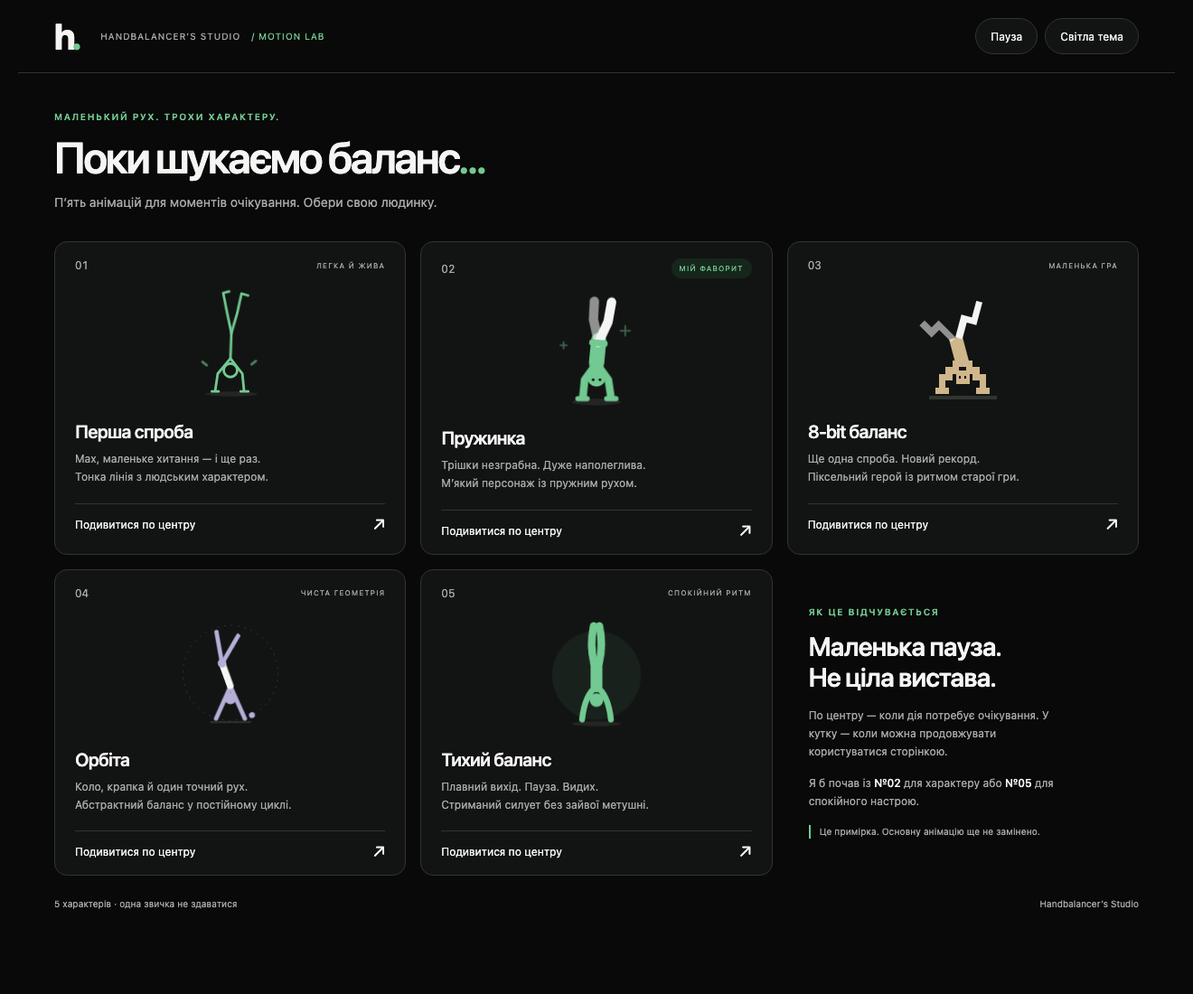
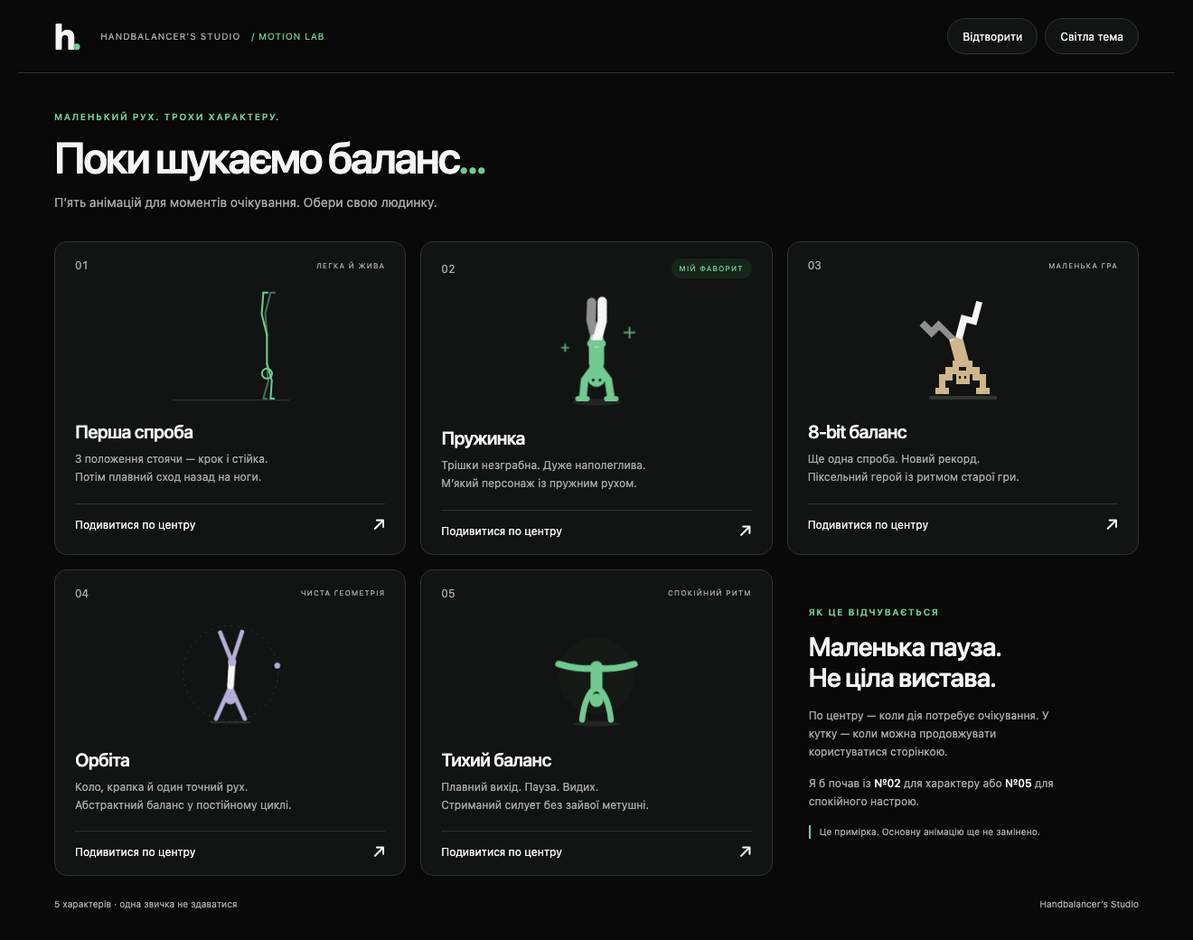
feat(ui): animate standing to handstand and back

diff --git a/server/static/previews/handstand/cycle-motion.js b/server/static/previews/handstand/cycle-motion.js
@@ -1,0 +1,87 @@
+// One small, side-view skeleton. Hands stay at fixed floor anchors during support.
+// Frames: time, hip, torso angle, rear/front feet, rear/front hands.
+const stand = [[68,105],-90,[62,164],[74,164],[57,108],[82,108]];
+const step = [[88,111],-78,[62,164],[112,164],[125,42],[133,47]];
+const stride = [[75,108],-86,[62,164],[90,149],[98,105],[108,93]];
+const lunge = [[100,116],-42,[64,164],[118,164],[153,124],[161,123]];
+const plant = [[108,106],41,[62,133],[118,164],[166,164],[176,164]];
+const split = [[161,76],81,[174,18],[113,109],[166,164],[176,164]];
+const balance = [[171,75],90,[176,16],[166,16],[166,164],[176,164]];
+const frames = [
+  [0,...stand],[.06,...stand],[.14,...stride],[.22,...step],[.28,...lunge],
+  [.34,...plant],
+  [.43,[130,88],51,[90,45],[117,145],[166,164],[176,164]],
+  [.50,...split],[.56,...balance],[.66,...balance],
+  [.72,...split],[.80,...plant],[.87,...lunge],[.92,...step],
+  [.96,...stride],[.98,...stand],[1,...stand],
+];
+const lerp = (a,b,t) => a+(b-a)*t;
+const point = (a,b,t) => [lerp(a[0],b[0],t),lerp(a[1],b[1],t)];
+
+function joint(start,end,length,bend) {
+  const dx=end[0]-start[0], dy=end[1]-start[1];
+  const distance=Math.max(.001,Math.hypot(dx,dy));
+  const offset=Math.sqrt(Math.max(0,length*length-distance*distance/4));
+  return [(start[0]+end[0])/2-bend*dy/distance*offset,
+    (start[1]+end[1])/2+bend*dx/distance*offset];
+}
+
+export function poseAt(progress) {
+  const t=Math.min(1,Math.max(0,progress));
+  const index=Math.max(1,frames.findIndex(frame=>frame[0]>=t));
+  const a=frames[index-1], b=frames[index];
+  const fraction=(t-a[0])/(b[0]-a[0]);
+  const ease=fraction*fraction*(3-2*fraction);
+  const hip=point(a[1],b[1],ease);
+  const angle=lerp(a[2],b[2],ease)*Math.PI/180;
+  const shoulder=[hip[0]+40*Math.cos(angle),hip[1]+40*Math.sin(angle)];
+  const head=[shoulder[0]+14*Math.cos(angle),shoulder[1]+14*Math.sin(angle)];
+  const backFoot=point(a[3],b[3],ease), frontFoot=point(a[4],b[4],ease);
+  const backHand=point(a[5],b[5],ease), frontHand=point(a[6],b[6],ease);
+  return {hip,shoulder,head,backFoot,frontFoot,backHand,frontHand,
+    backKnee:joint(hip,backFoot,30,-1),frontKnee:joint(hip,frontFoot,30,-1),
+    backElbow:joint(shoulder,backHand,25,-1),frontElbow:joint(shoulder,frontHand,25,-1)};
+}
+
+export function drawPose(svg,progress) {
+  const pose=poseAt(progress);
+  const coordinates = p => p.map(value=>value.toFixed(2)).join(' ');
+  const path = (name,points) => svg.querySelector(`[data-bone="${name}"]`)
+    .setAttribute('d',points.map((p,i)=>(i?'L':'M')+coordinates(p)).join(' '));
+  path('torso',[pose.hip,pose.shoulder]);
+  for (const side of ['back','front']) {
+    path(`${side}-leg`,[pose.hip,pose[`${side}Knee`],pose[`${side}Foot`]]);
+    path(`${side}-arm`,[pose.shoulder,pose[`${side}Elbow`],pose[`${side}Hand`]]);
+    const foot=pose[`${side}Foot`], hand=pose[`${side}Hand`];
+    path(`${side}-foot`,[foot,[foot[0]+6,foot[1]]]);
+    path(`${side}-hand`,[hand,[hand[0]+5,hand[1]]]);
+  }
+  svg.querySelector('[data-head]').setAttribute('cx',pose.head[0].toFixed(2));
+  svg.querySelector('[data-head]').setAttribute('cy',pose.head[1].toFixed(2));
+}
+
+export function mountHandstandCycle(svg) {
+  let elapsed=0, previous=null, frame=null, disposed=false;
+  const root=document.documentElement;
+  function tick(now) {
+    if (disposed) return;
+    if (!svg.isConnected) {dispose();return;}
+    if (previous!==null) elapsed+=now-previous;
+    previous=now;
+    drawPose(svg,(elapsed%8200)/8200);
+    frame=requestAnimationFrame(tick);
+  }
+  function sync() {
+    cancelAnimationFrame(frame); previous=null;
+    if (!document.hidden && root.dataset.paused!=='true') frame=requestAnimationFrame(tick);
+  }
+  const observer=new MutationObserver(sync);
+  observer.observe(root,{attributes:true,attributeFilter:['data-paused']});
+  document.addEventListener('visibilitychange',sync);
+  function dispose() {
+    disposed=true; cancelAnimationFrame(frame); observer.disconnect();
+    document.removeEventListener('visibilitychange',sync);
+  }
+  drawPose(svg,0); sync();
+  return dispose;
+}

diff --git a/tests/e2e/handstand-options.spec.js b/tests/e2e/handstand-options.spec.js
@@ -13,9 +13,19 @@ test('five animated options, both themes, mobile layout and pause', async ({page
       expect(await page.evaluate(()=>document.documentElement.scrollWidth<=innerWidth)).toBe(true);
     }
   }
-  expect(await page.locator('[data-option]').evaluateAll(cards=>cards.every(card=>card.getAnimations({subtree:true}).length>0))).toBe(true);
+  // SVG joint animation changes paths; the other studies use CSS animation clocks.
+  const snapshots=()=>page.locator('[data-option]').evaluateAll(cards=>cards.map(card=>JSON.stringify({
+    svg:card.querySelector('svg').outerHTML, clocks:card.getAnimations({subtree:true}).map(a=>a.currentTime),
+  })));
+  const before=await snapshots();
+  await page.waitForTimeout(800);
+  const after=await snapshots();
+  expect(after.every((value,index)=>value!==before[index])).toBe(true);
   await page.getByRole('button',{name:'Пауза'}).click();
   expect(await page.evaluate(()=>document.getAnimations().every(animation=>animation.playState==='paused'))).toBe(true);
+  const still=await page.locator('[data-handstand-cycle]').innerHTML();
+  await page.waitForTimeout(120);
+  expect(await page.locator('[data-handstand-cycle]').innerHTML()).toBe(still);
 });
 
 test('each option opens a small central animation with dimming; corner and Escape restore focus', async ({page}) => {
@@ -44,7 +54,37 @@ test('reduced motion defaults to still poses; preview makes no API calls', async
   await page.goto(preview);
   await expect(page.locator('[data-option]')).toHaveCount(5);
   expect(await page.evaluate(()=>document.getAnimations().every(animation=>animation.playState==='paused'))).toBe(true);
+  const cycle=page.locator('[data-handstand-cycle]');
+  const still=await cycle.innerHTML();
+  await page.waitForTimeout(800);
+  expect(await cycle.innerHTML()).toBe(still);
+  await page.getByRole('button',{name:'На весь екран — Перша спроба'}).click();
+  const clone=page.getByRole('dialog').locator('[data-handstand-cycle]');
+  const cloneStill=await clone.innerHTML();
+  await page.waitForTimeout(800);
+  expect(await clone.innerHTML()).toBe(cloneStill);
+  await page.keyboard.press('Escape');
   await page.getByRole('button',{name:'На весь екран — Пружинка'}).click();
   expect(await page.getByRole('dialog').evaluate(el=>el.getAnimations({subtree:true}).every(animation=>animation.playState==='paused'))).toBe(true);
   expect(api).toEqual([]);
+});
+
+test('dedicated cycle moves from standing feet to a handstand and pauses', async ({page}) => {
+  await page.setViewportSize({width:390,height:844});
+  await page.goto('/static/previews/handstand/cycle.html');
+  const figure=page.locator('[data-handstand-cycle]');
+  expect(Number(await figure.locator('[data-head]').getAttribute('cy'))).toBeLessThan(60);
+  await expect.poll(async()=>{
+    const path=await figure.locator('[data-bone="front-foot"]').getAttribute('d');
+    return Number(path.match(/-?\d+(?:\.\d+)?/g)[1]);
+  },{timeout:6500}).toBeLessThan(25);
+  await page.getByRole('button',{name:'Пауза'}).click();
+  const still=await figure.innerHTML();
+  await page.waitForTimeout(120);
+  expect(await figure.innerHTML()).toBe(still);
+  expect(await page.evaluate(()=>document.documentElement.scrollWidth<=innerWidth)).toBe(true);
+  await page.getByRole('button',{name:'На весь екран — Повний цикл'}).click();
+  await expect(page.getByRole('dialog')).toBeVisible();
+  await page.keyboard.press('Escape');
+  await expect(page.getByRole('button',{name:'На весь екран — Повний цикл'})).toBeFocused();
 });

diff --git a/server/static/previews/handstand/cycle.html b/server/static/previews/handstand/cycle.html
@@ -1,0 +1,45 @@
+<!doctype html>
+<html lang="uk" data-theme="dark">
+<head>
+  <meta charset="utf-8"><meta name="viewport" content="width=device-width, initial-scale=1">
+  <title>З ніг — на руки · Handbalancer’s Studio</title>
+  <link rel="stylesheet" href="../../css/tokens.css"><link rel="stylesheet" href="./options.css">
+  <script type="module" src="./options.js"></script>
+</head>
+<body>
+  <header class="topbar">
+    <a class="wordmark" href="./index.html" aria-label="Усі варіанти">h<span>.</span></a>
+    <span class="studio-label">HANDBALANCER’S STUDIO <span>/ MOTION LAB</span></span>
+    <div class="tools"><button type="button" data-pause aria-pressed="false">Пауза</button><button type="button" data-theme-toggle aria-label="Змінити тему">Світла тема</button></div>
+  </header>
+  <main class="cycle-main">
+    <section class="intro"><p class="eyebrow">ПЕРША СПРОБА / ПОВНИЙ РУХ</p>
+      <h1>З ніг — на руки<span>.</span></h1>
+      <p class="lead">Крок уперед. Вихід у стійку. Плавне повернення назад.</p>
+    </section>
+    <article class="option single-stage" data-option="1">
+      <div class="artboard"><svg class="figure cycle-figure" data-handstand-cycle viewBox="0 0 240 184" fill="none" aria-hidden="true">
+            <path class="cycle-ground" d="M40 166H202" />
+            <g class="cycle-rear"><path data-bone="back-leg" d="M68 105L62 135L62 164"/><path data-bone="back-foot" d="M62 164H68"/><path data-bone="back-arm" d="M68 65L57 86L57 108"/><path data-bone="back-hand" d="M57 108H62"/></g>
+            <path data-bone="torso" d="M68 105V65"/>
+            <path data-bone="front-leg" d="M68 105L74 135L74 164"/><path data-bone="front-foot" d="M74 164H80"/>
+            <path data-bone="front-arm" d="M68 65L82 86L82 108"/><path data-bone="front-hand" d="M82 108H87"/>
+            <circle data-head cx="68" cy="51" r="7"/>
+          </svg></div>
+      <div class="card-copy"><h2>Крок. Стійка. Назад.</h2><p>Один простий рух, який хочеться повторити.</p></div>
+      <button class="preview-button" type="button" data-open aria-label="На весь екран — Повний цикл">Подивитися по центру <span aria-hidden="true">↗</span></button>
+    </article>
+    <p class="cycle-sequence">Стоїть <span>→</span> Крок <span>→</span> Стійка на руках <span>→</span> Назад на ноги</p>
+    <footer><a href="./index.html">← Усі п’ять варіантів</a><span>Handbalancer’s Studio</span></footer>
+  </main>
+  <dialog data-preview data-placement="center" aria-labelledby="preview-title">
+    <div class="dialog-toolbar"><p id="preview-title"></p><button type="button" data-close aria-label="Закрити перегляд">Закрити <span aria-hidden="true">×</span></button></div>
+    <div class="loading-stage"><div data-stage></div><p>Знаходимо баланс<span class="dots">…</span></p></div>
+    <div class="placement" role="group" aria-label="Розташування анімації">
+      <button type="button" data-placement="center" aria-pressed="true">По центру</button>
+      <button type="button" data-placement="corner" aria-pressed="false">У кутку</button>
+    </div>
+    <p class="escape-hint">Демонстрація · Esc, щоб повернутися</p>
+  </dialog>
+</body>
+</html>

diff --git a/server/static/previews/handstand/options.css b/server/static/previews/handstand/options.css
@@ -36,17 +36,12 @@ h2 { margin: 0 0 9px; font-weight: 550; font-size: 20px; letter-spacing: -.035em
 .preview-note { font-size: 10px; line-height: 1.5; color: var(--muted); border-left: 2px solid var(--accent); padding-left: 10px; }
 footer { display: flex; justify-content: space-between; gap: 20px; padding: 25px 0 0; font-size: 10px; color: var(--muted); }
 .ground-shadow { fill: var(--text); opacity: .08; }
+.cycle-figure { width: 190px; height: 146px; }
+.cycle-figure path, .cycle-figure circle { stroke: var(--accent); stroke-width: 2.6; stroke-linecap: round; stroke-linejoin: round; }
+.cycle-figure .cycle-ground { stroke: var(--line); stroke-width: 1.4; }
+.cycle-rear { opacity: .5; }
 .ink { stroke: var(--accent); stroke-linecap: round; stroke-linejoin: round; }
 .thin { stroke-width: 3; }
-.line-balance { transform-origin: 80px 90px; animation: line-balance 3.4s ease-in-out infinite; }
-.line-back, .line-front { transform-origin: 80px 60px; }
-.line-back { animation: line-back 3.4s ease-in-out infinite; }
-.line-front { animation: line-front 3.4s ease-in-out infinite; }
-.effort { animation: effort 3.4s ease-in-out infinite; }
-@keyframes line-balance { 0%,100% { transform: rotate(55deg); } 32% { transform: rotate(-8deg); } 48%,62% { transform: rotate(2deg); } 78% { transform: rotate(-5deg); } }
-@keyframes line-back { 0%,100% { transform: rotate(54deg); } 28% { transform: rotate(-27deg); } 52%,65% { transform: rotate(0deg); } 80% { transform: rotate(22deg); } }
-@keyframes line-front { 0%,100% { transform: rotate(-40deg); } 28% { transform: rotate(24deg); } 52%,65% { transform: rotate(0deg); } 80% { transform: rotate(-16deg); } }
-@keyframes effort { 0%,24%,85%,100% { opacity: 0; } 40%,65% { opacity: .6; } }
 
 .spring-arms, .spring-hands, .spring-torso, .spring-leg, .spring-waist { stroke-linecap: round; stroke-linejoin: round; }
 .spring-arms { stroke: var(--accent); stroke-width: 9; }
@@ -147,3 +142,13 @@ dialog[data-placement="corner"] .escape-hint { bottom: 128px; }
   footer { font-size: 9px; } footer span { display: none; }
   .dialog-toolbar { top: 16px; left: 16px; right: 16px; } .dialog-toolbar p { max-width: 58%; }
 }
+
+.cycle-main { max-width: 820px; }
+.single-stage { margin-top: 30px; }
+.single-stage .artboard { height: 320px; }
+.single-stage .figure { width: min(360px,100%); height: 276px; }
+.single-stage .card-copy { text-align: center; }
+.single-stage .preview-button { max-width: 320px; margin-left: auto; margin-right: auto; }
+.cycle-sequence { margin: 24px 0 0; text-align: center; font-size: 11px; line-height: 2; color: var(--muted); }
+.cycle-sequence span { padding: 0 8px; color: var(--accent); }
+.cycle-main footer a { color: var(--muted); text-decoration: none; }

diff --git a/server/static/previews/handstand/index.html b/server/static/previews/handstand/index.html
@@ -27,21 +27,16 @@
       <article class="option line" data-option="1">
         <div class="card-top"><span class="number">01</span><span class="tag">ЛЕГКА Й ЖИВА</span></div>
         <div class="artboard">
-          <svg class="figure line-figure" viewBox="0 0 160 152" fill="none" aria-hidden="true">
-            <ellipse class="ground-shadow" cx="81" cy="132" rx="31" ry="3" />
-            <g class="ink thin">
-              <path d="M62 128L65 108L80 90L94 108L96 128M58 129H66M92 129H101" />
-              <circle cx="80" cy="104" r="8" />
-              <g class="line-balance">
-                <path d="M80 90L80 60" />
-                <path class="line-back" d="M80 60L74 35L69 13L76 11" />
-                <path class="line-front" d="M80 60L86 36L90 13L98 15" />
-              </g>
-              <path class="effort" d="M52 98L47 94M105 97L110 93" />
-            </g>
+          <svg class="figure cycle-figure" data-handstand-cycle viewBox="0 0 240 184" fill="none" aria-hidden="true">
+            <path class="cycle-ground" d="M40 166H202" />
+            <g class="cycle-rear"><path data-bone="back-leg" d="M68 105L62 135L62 164"/><path data-bone="back-foot" d="M62 164H68"/><path data-bone="back-arm" d="M68 65L57 86L57 108"/><path data-bone="back-hand" d="M57 108H62"/></g>
+            <path data-bone="torso" d="M68 105V65"/>
+            <path data-bone="front-leg" d="M68 105L74 135L74 164"/><path data-bone="front-foot" d="M74 164H80"/>
+            <path data-bone="front-arm" d="M68 65L82 86L82 108"/><path data-bone="front-hand" d="M82 108H87"/>
+            <circle data-head cx="68" cy="51" r="7"/>
           </svg>
         </div>
-        <div class="card-copy"><h2>Перша спроба</h2><p>Мах, маленьке хитання — і ще раз.<br>Тонка лінія з людським характером.</p></div>
+        <div class="card-copy"><h2>Перша спроба</h2><p>З положення стоячи — крок і стійка.<br>Потім плавний сход назад на ноги.</p></div>
         <button class="preview-button" type="button" data-open aria-label="На весь екран — Перша спроба">Подивитися по центру <span aria-hidden="true">↗</span></button>
       </article>
 

diff --git a/tests/js/handstand-cycle.test.js b/tests/js/handstand-cycle.test.js
@@ -1,0 +1,36 @@
+import test from 'node:test';
+import assert from 'node:assert/strict';
+import {poseAt} from '../../server/static/previews/handstand/cycle-motion.js';
+
+test('standing, forward step, planted hands, handstand and return form a complete loop', () => {
+  const start=poseAt(0), step=poseAt(.22), plant=poseAt(.34), peak=poseAt(.6);
+  assert.ok(start.head[1]<start.hip[1] && start.hip[1]<start.frontFoot[1]);
+  assert.equal(start.frontFoot[1],164);
+  assert.ok(step.frontFoot[0]>start.frontFoot[0]+30);
+  assert.equal(plant.frontHand[1],164);
+  assert.ok(peak.frontFoot[1]<peak.hip[1] && peak.hip[1]<peak.shoulder[1]);
+  assert.ok(peak.shoulder[1]<peak.frontHand[1]);
+  assert.deepEqual(poseAt(1),start);
+  assert.deepEqual(poseAt(0.98),start);
+});
+
+test('hands stay planted throughout the kick and exit; joints stay above the floor', () => {
+  for (let i=0;i<=1000;i++) {
+    const t=i/1000, pose=poseAt(t);
+    for (const point of Object.values(pose)) {
+      assert.ok(point.every(Number.isFinite));
+      assert.ok(point[1]<=164.001,`below ground at ${t}`);
+    }
+    if(t>=.34 && t<=.80) {
+      assert.deepEqual(pose.frontHand,[176,164]);
+      assert.deepEqual(pose.backHand,[166,164]);
+    }
+    assert.ok(Math.abs(Math.hypot(pose.shoulder[0]-pose.hip[0],pose.shoulder[1]-pose.hip[1])-40)<.001);
+    for(const side of ['back','front']) {
+      for(const [from,to,length] of [['hip',`${side}Knee`,30],[`${side}Knee`,`${side}Foot`,30],
+        ['shoulder',`${side}Elbow`,25],[`${side}Elbow`,`${side}Hand`,25]]) {
+        assert.ok(Math.abs(Math.hypot(pose[from][0]-pose[to][0],pose[from][1]-pose[to][1])-length)<.001);
+      }
+    }
+  }
+});

diff --git a/server/static/previews/handstand/options.js b/server/static/previews/handstand/options.js
@@ -1,3 +1,5 @@
+import {mountHandstandCycle} from './cycle-motion.js';
+
 const root = document.documentElement;
 const pause = document.querySelector('[data-pause]');
 const theme = document.querySelector('[data-theme-toggle]');
@@ -11,6 +13,8 @@ function setPaused(value) {
   pause.textContent = value ? 'Відтворити' : 'Пауза';
 }
 setPaused(motion.matches);
+for (const svg of document.querySelectorAll('[data-handstand-cycle]')) mountHandstandCycle(svg);
+let disposeCycle;
 motion.addEventListener('change', event => setPaused(event.matches));
 pause.addEventListener('click', () => setPaused(root.dataset.paused !== 'true'));
 theme.addEventListener('click', () => {
@@ -28,6 +32,9 @@ for (const button of document.querySelectorAll('[data-open]')) {
   button.addEventListener('click', () => {
     const card = button.closest('[data-option]');
     stage.replaceChildren(card.querySelector('svg').cloneNode(true));
+    disposeCycle?.();
+    const cycle=stage.querySelector('[data-handstand-cycle]');
+    disposeCycle=cycle ? mountHandstandCycle(cycle) : null;
     dialog.querySelector('#preview-title').textContent = `0${card.dataset.option} / ${card.querySelector('h2').textContent}`;
     setPlacement('center');
     dialog.showModal();
@@ -36,6 +43,7 @@ for (const button of document.querySelectorAll('[data-open]')) {
 }
 dialog.querySelector('[data-close]').addEventListener('click', () => dialog.close());
 dialog.addEventListener('close', () => {
+  disposeCycle?.(); disposeCycle=null;
   stage.replaceChildren();
   document.body.classList.remove('preview-open');
 });

diff --git a/docs/adr/handstand-cycle.md b/docs/adr/handstand-cycle.md
@@ -1,0 +1,27 @@
+# Повний цикл thin-line handstand — 2026-11-08
+
+Власник уточнив варіант01: звичайна стійка на ногах → крок уперед → руки
+на підлогу → мах і приєднання другої ноги у стійці → сход назад → вихідна поза.
+Стиль — тонка лінія першого варіанта. Жодних зірок, орбіт або падінь.
+
+Оновлено01 у gallery; окремий перегляд /static/previews/handstand/cycle.html.
+Цикл8.2s, пауза у верхній точці та стоячи. Малий JS-контролер інтерполює
+ключові пози; двосегментні руки/ноги мають сталі довжини. Долоні нерухомі
+під час опори. SVG без зовнішніх залежностей, мережі чи даних користувача.
+
+RAF зупиняється на pause/hidden tab, elapsed не стрибає при поверненні;
+reduced-motion починається нерухомо; dialog clone має dispose (RAF/observer/listener).
+Основний runtime loader/правила blocking overlay не змінено: це refinement
+анімації у вже погодженій preview-задачі, placement ще не визначено остаточно.
+
+RED:node --test tests/js/handstand-cycle.test.js — module missing.
+GREEN:2 geometry tests (1001 samples: fixed lengths/floor/anchored hands/phases),
+4 browser tests (gallery themes390/1440, live joint motion, pause, reduced-motion
+на картці іclone, native dialogs/Escape/focus, dedicatedcycle.html).
+Попередній CSS-only motionassert замінено перевіркою SVG+animationclocks, бо RAF
+не присутній у getAnimations(); вимогу руху не послаблено.
+
+Read-only review без блокерів; reviewer-requested RAF/reduced-motion іstandalone
+smoke додані та пройшли. Шість ключових поз переглянуто покадрово;mobile light
+central preview також. cycle.gif —123frames/15fps/8.2s, actual browser render;
+overview.gif/png оновлено для gallery. Нових cloud/runtime dependencies немає.

diff --git a/docs/adr/handstand-options.md b/docs/adr/handstand-options.md
@@ -10,7 +10,7 @@
 04 Орбіта — геометрична фігура, коло, перехресний баланс.
 05 Тихий баланс — плавний straddle press, пауза, дихаюче тло.
 
-Усі рухи — локальні SVG/CSS; жодних бібліотек, API, зовнішніх ресурсів чи
+Рухи — локальні SVG/CSS; уточнений01 використовує SVG+JS (handstand-cycle.md); жодних бібліотек, API, зовнішніх ресурсів чи
 зміни поточного runtime loader. Native dialog показує centre/corner placement;
 навіть corner у цій примірці modal — це порівняння вигляду, не інтеграція
 фонового завантаження. Escape/close повертають focus. Пауза, light/dark,
@@ -20,7 +20,7 @@ mobile, prefers-reduced-motion (з ручним opt-in playback).
 Після вибору власника окремо підключити конкретний варіант і визначити blocking
 операції. Не перехоплювати всі фонoві session refresh повноекранним loader.
 
-overview.gif:6s/10fps browser-rendered motion contact sheet, scaled924px;
+overview.gif:8.2s/10fps browser-rendered motion contact sheet, scaled924px;
 overview.png:статичний огляд. Це preview artifacts, не runtime assets loader.
 
 RED:3 browser scenarios failed (preview404, no cards/buttons).

diff --git a/.workflow/CURRENT.md b/.workflow/CURRENT.md
@@ -1,3 +1,20 @@
+# Поточний checkpoint — повний цикл «з ніг на руки», 2026-11-08
+
+Власник обрав thin-line стиль01 і уточнив рух: стоїть → крок → ставить руки →
+виходить у стійку → сходить назад → стоїть. Реалізовано8.2s цикл, SVG+малий JS
+без бібліотек. Варіант01 у gallery оновлено; окремо /static/previews/handstand/cycle.html.
+cycle.gif показує повний рух; galleryoverview оновлено. Local8000 доступний.
+
+2 geometry tests/1001sample,4 browser scenarios,36 JS passed. Read-only review
+без блокерів; RAF reduced-motion на картці/clone іdedicatedpage перевірені.
+Докази: .workflow/evidence/handstand-cycle.json; рішення: docs/adr/handstand-cycle.md.
+
+Це уточнення preview. Основний runtime loader/placement ще не замінено.
+Next: перегляд власником повного руху, потім інтеграція обраного розташування.
+Roadmap/auth/cloud/security gates не змінені. Попередній previewcommit:f9f55d1.
+
+## Попередній checkpoint
+
 # Поточний checkpoint — 5 варіантів анімації для вибору, 2026-11-08
 
 За запитом власника створено5 рухомих SVG/CSS-варіантів: Перша спроба,
